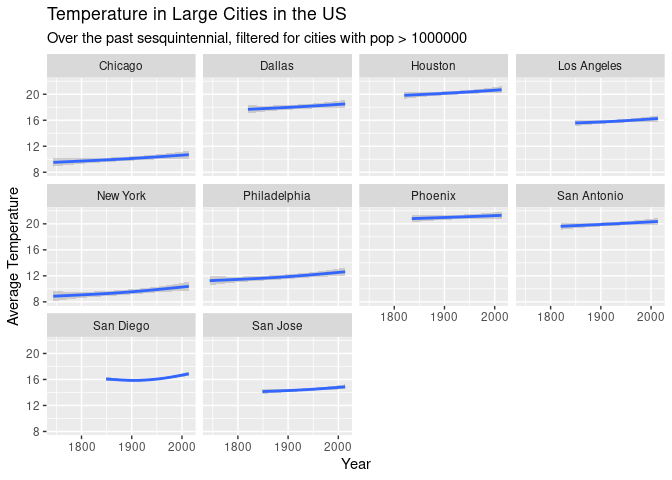
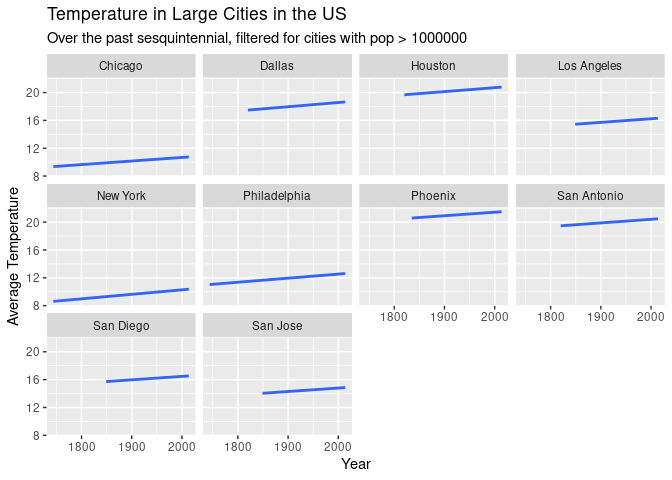
Add text to summary doc

diff --git a/README.md b/README.md
@@ -1,28 +1,137 @@
-The World is Changing: Accessible data for climate change
+The World is Changing
 ================
-by Team name
+by Team ACE
 
-## Summary
+## Introduction
 
-<!-- Write-up of your project and findings go here. -->
-<!-- Think of this as the text of your presentation. -->
-<!-- The length should be roughly 5 minutes when read out loud. -->
-<!-- Although pacing varies, a 5-minute speech is roughly 750 words. -->
-<!-- To use the word count addin, select the text you want to count the words of (probably this is the -->
-<!-- Summary section of this document, go to Addins, and select the `Word count` addin). -->
-<!-- This addin counts words using two different algorithms, but the results should be similar and as long as you're in the ballpark of 750 words, you're good! -->
-<!-- The addin will ignore code chunks and only count the words in prose. -->
-<!-- You can also load your data here and present any analysis results / plots, but I strongly urge you to keep that to a minimum (maybe only the most important graphic, if you have one you can choose). -->
-<!-- And make sure to hide your code with  `echo = FALSE` unless the point you are trying to make is about the code itself. -->
-<!-- Your results with proper output and graphics go in your presentation, this space is for a brief summary of your project. -->
-<!-- ```{r load-data, echo = FALSE} -->
-<!-- # load data here, if you like -->
-<!-- ``` -->
-<!-- ## Presentation -->
-<!-- Our presentation can be found [here](presentation/presentation.html). -->
-<!-- ## Data -->
+Climate change is an ever increasing concern for humanity as we continue
+to rely on natural gas, oil, and other finite resources to power our
+lives. Despite efforts to reduce personal carbon footprints and switch
+to renewable sources of energy such as solar, wind, or hydroelectric,
+greenhouse gas emissions are still rising worldwide. If we as a species
+do not take action to switch from fossil fuels to sustainable sources of
+energy, we risk losing more than we can handle, from the biodiversity of
+many ecosystems to entire housing markets. The only way to reduce the
+effects of climate change is to stop using fossil fuels soon, however
+even though people are aware of climate change, facts alone will not
+engage people to take action. As such, we have taken these facts and
+turned them into more powerful figures to help people visualize the
+damage done by climate change.
+
+## Methodology
+
+The data analyzed to make visualizations for this project came from a
+variety of sources. The majority of which, including sea level rise,
+city population density, and temperature came from Kaggle. All of the
+data analyzed in this project were numerical data, with exceptions for
+city names and disaster types, which were qualitative data. Datasets
+were combined and cleaned to create data frames that were easy to work
+with and create plots. For example, the US_Temp_Pop dataset combines US
+city population data and temperature data over time to more easily
+visualize how temperatures in cities with high populations are rising.
+Using these datasets in combination with one another helped us answer
+our initial question, “How does increasing global temperatures measured
+by city predict the number of natural disasters in the same area?” This
+was accomplished by making histogram plots of natural disasters, plots
+of specific disasters such as wildfires per city, and creating a leaflet
+mapping of wildfires throughout the United States.
+
+Although natural disasters are striking and cause lots of acute damage
+when they occur, rising sea levels also pose a more subtle threat. As
+sea levels continue to rise in the long term, more and more habitats and
+coastal communities become increasingly concerned with consistent
+flooding and destruction of their property and ecosystems. For this
+reason, we also included plots of rising sea levels globally. In
+addition to the plot, we also created a linear regression model to
+interpret the rate at which global sea level rise is occurring at. The
+model also has the added benefit of being able to predict what the mean
+sea level may look like in the near future based on past data. Finally,
+we also analyzed global CO2 levels as an explanatory variable for the
+increase in global temperature rise.
+
+## Findings
+
+The linear regression formulated from mean sea level rise reveals that
+global mean sea levels are rising at approximately .318mm/year.. At this
+current rate, coastal communities like Miami beaches could be completely
+submerged by 2100( Castro, Alejandro). While this rate was formulated
+based on current data, it is likely that this rate will increase in the
+coming years as the rate of CO2 emissions is increasing exponentially.
+This is evident both in our visualization of the Mauna Loa CO2 levels,
+and also in our figure depicting the Global CO2 levels over the past 800
+thousand years, in which we find a sharp spike in the CO2 levels in ppm
+at the dawn of the industrial revolution.
+
+In concordance with rising CO2 levels, there is also a linear increase
+in the average temperature of cities in the US with a population over
+one million. Higher temperatures increase risk to areas with drier
+climates as periods of heat waves last longer. This in turn increases
+the risk of drought in the area along with the probability of wildfires.
+Our line plot showing the large wildfires per year from 1990-2015
+portrays an increase concurrent with rising temperatures. Most
+strikingly, the leaflet plot visualizing large wildfires across the US
+outlines that wildfires are a much more serious concern on the west
+coast and in Alaska compared to the east coast.
+
+Between rising sea levels, increasing rates of wildfires, and higher CO2
+levels in our atmosphere, it is clear that as we continue to rely on
+fossil fuels to power our lives, we pay a higher price each day by
+risking more frequent and catastrophic natural disasters.
+
+<img src="README_files/figure-gfm/unnamed-chunk-1-1.png" title="Density plot of natural disasters. Shows increase from 1950 to present" alt="Density plot of natural disasters. Shows increase from 1950 to present"  />
+
+<img src="README_files/figure-gfm/global_co2-1.png" title="Global CO2 levels (ppm) of last 800 thousand years from ice cores. Big spike at onset of industrial revolution and still rising today." alt="Global CO2 levels (ppm) of last 800 thousand years from ice cores. Big spike at onset of industrial revolution and still rising today."  />
+
+<img src="README_files/figure-gfm/recent_co2-1.png" title="Mauna Loa CO2 levels (ppm) of last 60 years. Shows seasonal variability and distinct exponential increase." alt="Mauna Loa CO2 levels (ppm) of last 60 years. Shows seasonal variability and distinct exponential increase."  />
+
+## Presentation
+
+Our presentation can be found [here](presentation/presentation.html).
+
+## Data
+
 <!-- Include a citation for your data here. -->
 <!-- See http://libraryguides.vu.edu.au/c.php?g=386501&p=4347840 for guidance on proper citation for datasets. -->
 <!-- If you got your data off the web, make sure to note the retrieval date. -->
-<!-- ## References -->
-<!-- List any references here. You should, at a minimum, list your data source. -->
+
+US Temperature Data
+
+File name: US_temps.csv
+
+[Source](https://www.kaggle.com/berkeleyearth/climate-change-earth-surface-temperature-data)
+
+US Disaster Data
+
+File name: us_disaster_declarations.csv
+
+[Source](https://www.kaggle.com/headsortails/us-natural-disaster-declarations/version/72)
+
+Wildfire Data
+
+File name: FW_Veg_Rem_Combined.csv
+
+[Source](https://www.kaggle.com/capcloudcoder/us-wildfire-data-plus-other-attributes)
+
+Sea Level Data
+
+File name: sealevel.csv
+
+[Source](https://www.kaggle.com/kkhandekar/global-sea-level-1993-2021)
+
+US city population density Data
+
+File name: uscitypopdensity.csv
+
+[Source](https://www.kaggle.com/mmcgurr/us-city-population-densities)
+
+Global CO2 data
+
+File name: co2_data.csv
+
+[Source](https://keelingcurve.ucsd.edu/permissions-and-data-sources/)
+
+## References
+
+Castro, Alejandro. “Miami Underwater.” ArcGIS StoryMaps, Esri, 4
+Dec. 2020,
+<https://storymaps.arcgis.com/stories/80d2465cd19c405f933e9afcfe1fdf83>.

diff --git a/proposal/proposal.md b/proposal/proposal.md
@@ -233,10 +233,11 @@ wildfires <- wildfires %>%
 ggplot(data = wildfires,
        mapping = aes(x = disc_pre_year)) + 
   geom_density() +
-  labs(title = "Histogram of wildfires",
+  labs(title = "Line Graph of wildfires",
        subtitle = "From 1991 to 2015",
        x = "Year",
-       y = "Count")
+       y = "Count") +
+  scale_color_viridis_c()
 ```
 
     ## Warning: Removed 8 rows containing non-finite values (stat_density).
@@ -252,7 +253,8 @@ US_temp %>%
     labs(title = "Temperature in San Fransisco, Ca",
          subtitle = "Over the past sesquintennial",
          x = "Year",
-         y = "Average Temperature")
+         y = "Average Temperature") +
+  scale_color_viridis_c()
 ```
 
     ## `geom_smooth()` using method = 'gam' and formula 'y ~ s(x, bs = "cs")'
@@ -271,10 +273,25 @@ disaster_data %>%
     labs(title = "Histogram of major disasters",
          subtitle = "By disaster type",
          x = "Year",
-         y = "Count")
+         y = "Count") +
+  scale_color_viridis_c()
 ```
 
 ![](proposal_files/figure-gfm/disaster-hist-1.png)<!-- -->
+
+``` r
+disaster_data %>%
+ggplot(mapping = aes(x = fy_declared)) +
+  geom_density() + 
+  theme(axis.text.x = element_text(angle = 45)) + 
+  labs(title = "Histogram of major disasters",
+       subtitle = "By disaster type",
+       x = "Year",
+       y = "Count") +
+  scale_color_viridis_c()
+```
+
+![](proposal_files/figure-gfm/disaster-hist-2.png)<!-- -->
 
 ``` r
 lg_wildfires <- wildfires %>%
@@ -306,13 +323,14 @@ ggplot(data = sea_lvl,
        mapping = aes(x = Year, 
                      y = GMSL_noGIA)) + 
   geom_point() + 
-  geom_line(aes(y = avg_GMSL_per_year, color = "red")) +
-  geom_point(aes(y = avg_GMSL_per_year, color = "orange")) +
+  geom_line(aes(y = avg_GMSL_per_year, color = "#edf8b1")) +
+  geom_point(aes(y = avg_GMSL_per_year, color = "yellow")) +
   geom_smooth() +
   labs(title = "Global mean sea level rise",
        subtitle = "Relative to 2006",
        x = "Year",
-       y = "Global Mean Sea Level (mm)")
+       y = "Global Mean Sea Level (mm)") +
+  scale_color_viridis_d()
 ```
 
     ## `geom_smooth()` using method = 'loess' and formula 'y ~ x'
@@ -325,7 +343,7 @@ US_temp_pop %>%
   select(dt, AverageTemperature, City, State, Population_2016) %>%
   ggplot(mapping = aes(x = dt, 
                        y = AverageTemperature)) + 
-    geom_smooth() + 
+    geom_smooth(method = "lm", se = FALSE) + 
     labs(title = "Temperature in Large Cities in the US",
          subtitle = "Over the past sesquintennial, filtered for cities with pop > 1000000",
          x = "Year",
@@ -333,7 +351,7 @@ US_temp_pop %>%
     facet_wrap( ~ City)
 ```
 
-    ## `geom_smooth()` using method = 'gam' and formula 'y ~ s(x, bs = "cs")'
+    ## `geom_smooth()` using formula 'y ~ x'
 
     ## Warning: Removed 353 rows containing non-finite values (stat_smooth).
 
@@ -367,7 +385,7 @@ lg_wildfires %>%
           zoom = 4) %>%
   addCircles(lng = ~lg_wildfires$longitude, 
              lat = ~lg_wildfires$latitude, 
-             label = ~lg_wildfires$stat_cause_descr, 
+             label = ~lg_wildfires$stat_cause_descr, ~lg_wildfires$disc_pre_year, 
              radius = ~lg_wildfires$wf_rad_mi,
              color = wf_pal(lg_wildfires$fire_size_class),
              stroke = FALSE,
@@ -398,7 +416,7 @@ m1
 
     ## parsnip model object
     ## 
-    ## Fit time:  4ms 
+    ## Fit time:  3ms 
     ## 
     ## Call:
     ## stats::lm(formula = Year ~ GMSL_GIA, data = data)
@@ -449,7 +467,7 @@ ggplot(mapping = aes(x = Date, y = co2_ppm)) +
   labs(title = "Mauna Loa CO2 levels",
        subtitle = "Since 1958",
        x = "Date",
-       y = "CO2 levels (ppm)")
+       y = "CO2 levels (ppm)") 
 ```
 
     ## `geom_smooth()` using method = 'gam' and formula 'y ~ s(x, bs = "cs")'

diff --git a/data/README.md b/data/README.md
@@ -125,6 +125,7 @@ Rows: 754
 
 ## Global CO2 data
 File name: co2_data.csv
+
 [Source](https://keelingcurve.ucsd.edu/permissions-and-data-sources/)
 Columns: 6
 Rows: 1346 
